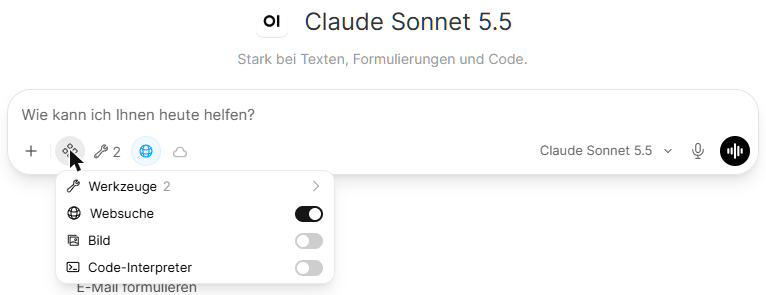
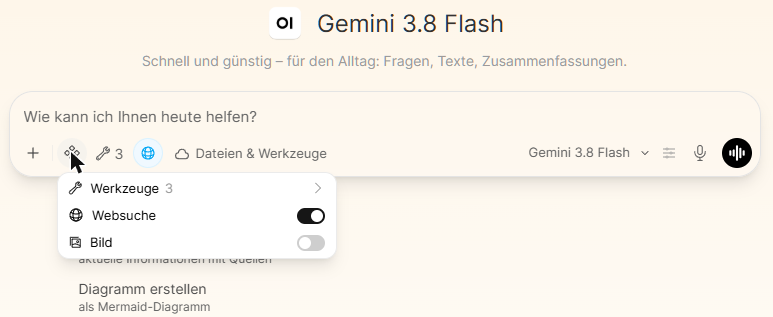
Anleitung: Dateien & Werkzeuge statt Terminal, gescannte PDFs (#4)
* Open WebUI guide: terminal is now 'Dateien & Werkzeuge', pre-selected by the models; long documents read completely; scanned PDFs only with it switched off

* Open WebUI guide: code interpreter removed (switched off), scanned PDFs work in every chat, editing uploads via a copy in Dateien & Werkzeuge

* Open WebUI guide: new screenshots (Dateien & Werkzeuge, menu without code interpreter, Excel example); wording holds while instances move to the standard

diff --git a/openwebui/anleitung.md b/openwebui/anleitung.md
@@ -16,7 +16,7 @@ Welche Modelle und Funktionen bei Ihnen freigeschaltet sind, legt Ihr Unternehme
 8. [PowerPoint-Präsentationen](#8-powerpoint-präsentationen)
 9. [Word-Dokumente und E-Mails](#9-word-dokumente-und-e-mails)
 10. [Diagramme und Auswertungen](#10-diagramme-und-auswertungen)
-11. [Programmieren: Code-Interpreter und Terminal](#11-programmieren-code-interpreter-und-terminal)
+11. [Programmieren und Dateien erzeugen: Dateien & Werkzeuge](#11-programmieren-und-dateien-erzeugen-dateien--werkzeuge)
 12. [Sprache: diktieren und vorlesen](#12-sprache-diktieren-und-vorlesen)
 13. [Weitere Funktionen](#13-weitere-funktionen)
 14. [Gute Prompts schreiben](#14-gute-prompts-schreiben)
@@ -35,15 +35,17 @@ Welche Modelle und Funktionen bei Ihnen freigeschaltet sind, legt Ihr Unternehme
 
 ### Zusatzfunktionen am Eingabefeld
 
-Über das Symbol mit den vier Punkten neben dem **+** schalten Sie Zusatzfunktionen für den aktuellen Chat ein und aus: **Websuche**, **Bild** (Bildgenerierung) und **Code-Interpreter**.
+Über das Symbol mit den vier Punkten neben dem **+** schalten Sie Zusatzfunktionen für den aktuellen Chat ein und aus: **Websuche** und **Bild** (Bildgenerierung).
 
-![Schalter am Eingabefeld: Websuche, Bild, Code-Interpreter](images/schalter-eingabefeld.png)
+![Schalter am Eingabefeld: Websuche, Bild](images/schalter-eingabefeld.png)
 
-### Terminal einmal auswählen (wichtig für Dateien)
+### Dateien & Werkzeuge (wichtig für Dateien)
 
-Damit die KI Dateien für Sie erstellen kann (Excel, Word, CSV …), braucht sie das **Terminal**. Klicken Sie einmal auf das **Wolken-Symbol** am Eingabefeld und wählen Sie das Terminal aus (bei Ihnen heißt es z. B. *Open Terminal*). Ihr Browser merkt sich die Auswahl für alle neuen Chats. Auf einem anderen Gerät, in einem anderen Browser oder im privaten Fenster wählen Sie es erneut aus.
+**Dateien & Werkzeuge** ist Ihr persönlicher Ordner auf dem Server, in dem die KI arbeitet: Sie kann dort Dateien erstellen und bearbeiten (Excel, Word, CSV …), Programme ausführen und Ihnen das Ergebnis zum Herunterladen geben. Andere Personen sehen Ihre Dateien nicht.
 
-![Terminal auswählen: Wolken-Symbol am Eingabefeld, darunter das Terminal (der Name kann bei Ihnen abweichen)](images/terminal-auswahl.png)
+In der Regel ist **Dateien & Werkzeuge** bei den Modellen schon eingeschaltet. Am **Wolken-Symbol** am Eingabefeld sehen Sie, ob es aktiv ist. Steht dort nicht *Dateien & Werkzeuge*, klicken Sie auf das Wolken-Symbol und wählen es aus; dort schalten Sie es für einen Chat auch wieder aus.
+
+![Dateien & Werkzeuge: Wolken-Symbol am Eingabefeld](images/terminal-auswahl.png)
 
 ### Unterschied zu ChatGPT
 
@@ -101,9 +103,11 @@ Die Websuche ist bei den meisten Modellen bereits eingeschaltet. Das Modell such
 
 Ziehen Sie eine Datei ins Chatfenster oder hängen Sie sie über das **Plus-Symbol** an. Geeignet sind z. B. PDF, Word, Excel, PowerPoint, Text und Bilder.
 
-- Das Modell liest die Datei bei Bedarf selbst und nennt in der Antwort den **Dateinamen als Quelle**.
+- Das Modell liest die Datei bei Bedarf selbst, auch lange Dokumente vollständig, und nennt in der Antwort den **Dateinamen als Quelle**.
 - Mehrere Dateien gleichzeitig sind möglich (Ihr Unternehmen kann Größe und Anzahl begrenzen).
 - Bilder und Screenshots kann das Modell "sehen": z. B. eine Fehlermeldung, ein Diagramm oder eine handschriftliche Notiz.
+- Auch eingescannte PDFs (Papierseiten ohne Text darin) kann das Modell lesen: Die Plattform erkennt den Text automatisch.
+- Soll die KI eine Datei ändern (z. B. eine Spalte in Ihrer Excel-Datei ergänzen), legt sie eine Kopie in **Dateien & Werkzeuge** an (Abschnitt 1), bearbeitet sie dort und gibt Ihnen die geänderte Fassung zum Herunterladen.
 
 > Beispiel: *Fasse den angehängten Vertrag in 10 Punkten zusammen und markiere alle Fristen.*
 
@@ -170,28 +174,23 @@ Tipps: Inhalt und Gliederung zuerst im Chat abstimmen, dann die Präsentation er
 
 ![Mermaid-Diagramm im Chat](images/mermaid-diagramm.png)
 
-**Diagramme aus Zahlen (Balken, Linien, Torten):** Schalter **Code-Interpreter** einschalten, Daten einfügen oder Excel-Datei anhängen und um eine Auswertung mit Diagramm bitten. Das Modell rechnet in Python und zeigt das Diagramm als Bild im Chat.
+**Diagramme aus Zahlen (Balken, Linien, Torten):** Daten einfügen oder Excel-Datei anhängen und um eine Auswertung mit Diagramm bitten. Mit **Dateien & Werkzeuge** rechnet das Modell in Python und gibt Ihnen das Diagramm als Bild oder in einer Excel-Datei zum Herunterladen.
 
 > Beispiel: *Werte die angehängte Excel-Tabelle aus: Umsatz pro Monat als Liniendiagramm und die drei stärksten Produkte als Balkendiagramm.*
 
-## 11. Programmieren: Code-Interpreter und Terminal
+## 11. Programmieren und Dateien erzeugen: Dateien & Werkzeuge
 
-| | Code-Interpreter | Terminal (Open Terminal) |
-|---|---|---|
-| Was | Python direkt in Ihrem Browser | Eigene Linux-Umgebung pro Person auf dem Server |
-| Gut für | Berechnungen, Auswertungen, Diagramme im Chat | Dateien erzeugen (Excel, Word, CSV …), größere Skripte, mehrere Dateien |
-| Dateien herunterladen | Nein, Ergebnisse erscheinen nur im Chat | Ja, die Datei erscheint im Chat mit Download-Schaltfläche |
-| Einschalten | Schalter **Code-Interpreter** am Eingabefeld | Wolken-Symbol am Eingabefeld → **Open Terminal** (bleibt im Browser für neue Chats ausgewählt) |
+**Dateien & Werkzeuge** ist eine eigene Linux-Umgebung pro Person auf dem Server. Dort erzeugt und bearbeitet die KI Dateien (Excel, Word, CSV …), rechnet Auswertungen, zeichnet Diagramme und führt auch größere Skripte aus.
 
 - Das Modell schreibt den Code, führt ihn aus und erklärt das Ergebnis.
-- **Für Dateien zum Herunterladen das Terminal verwenden.** Ist es nicht ausgewählt, kann die KI keine Datei erzeugen (siehe Abschnitt 1).
-- Die fertige Datei zeigt die KI direkt im Chat an, mit Vorschau und Download-Schaltfläche. Alle Ihre Dateien finden Sie außerdem im Seitenfenster **Dateien** des Terminals.
-- Im Terminal bleiben Ihre Dateien erhalten; andere Personen sehen sie nicht.
+- **Für Dateien zum Herunterladen muss Dateien & Werkzeuge eingeschaltet sein** (meist ist es das schon, siehe Abschnitt 1). Ist es ausgeschaltet, kann die KI keine Datei erzeugen.
+- Die fertige Datei zeigt die KI direkt im Chat an, mit Vorschau und Download-Schaltfläche. Alle Ihre Dateien finden Sie außerdem im Seitenfenster **Dateien**.
+- Ihre Dateien bleiben in Ihrem Ordner erhalten; andere Personen sehen sie nicht.
 - Für Programmier- und Rechenaufgaben die starken Modelle wählen (siehe Abschnitt 2). Schnelle Modelle weichen eher aus und liefern nur Code zum Selbst-Ausführen.
 
-> Beispiel (Terminal): *Erstelle im Terminal mit Python eine Excel-Datei mit Beispiel-Umsätzen für 12 Monate und 3 Produkte inklusive Diagramm und gib mir die Datei zum Download.*
+> Beispiel (Dateien & Werkzeuge): *Erstelle mit Python eine Excel-Datei mit Beispiel-Umsätzen für 12 Monate und 3 Produkte inklusive Diagramm und gib mir die Datei zum Download.*
 
-![Terminal: erzeugte Excel-Datei mit Vorschau im Seitenfenster](images/terminal-excel.png)
+![Dateien & Werkzeuge: erzeugte Excel-Datei mit Vorschau und Download im Chat](images/terminal-excel.png)
 
 ## 12. Sprache: diktieren und vorlesen
 
@@ -237,8 +236,7 @@ Ihr Unternehmen schaltet Modelle und Funktionen frei. Wenden Sie sich an Ihre IT
 "Weiter" schreiben, oder die Antwort mit dem Pfeil-Symbol neu erzeugen lassen. Bei sehr langen Chats hilft ein neuer Chat.
 
 **Die KI sagt, sie habe eine Datei erstellt, aber ich kann sie nicht herunterladen.**
-Prüfen Sie, ob das Terminal ausgewählt ist (Wolken-Symbol am Eingabefeld → **Open Terminal**), und lassen Sie die Datei neu erstellen. Wenn die Datei nur als Text oder Link ohne Download erscheint: "Zeig mir die Datei an" schreiben.
-
+Prüfen Sie am Wolken-Symbol, ob **Dateien & Werkzeuge** eingeschaltet ist, und lassen Sie die Datei neu erstellen. Wenn die Datei nur als Text oder Link ohne Download erscheint: "Zeig mir die Datei an" schreiben.
 **Das Modell kennt aktuelle Ereignisse nicht.**
 Websuche einschalten bzw. "Recherchiere im Web …" schreiben.
 
